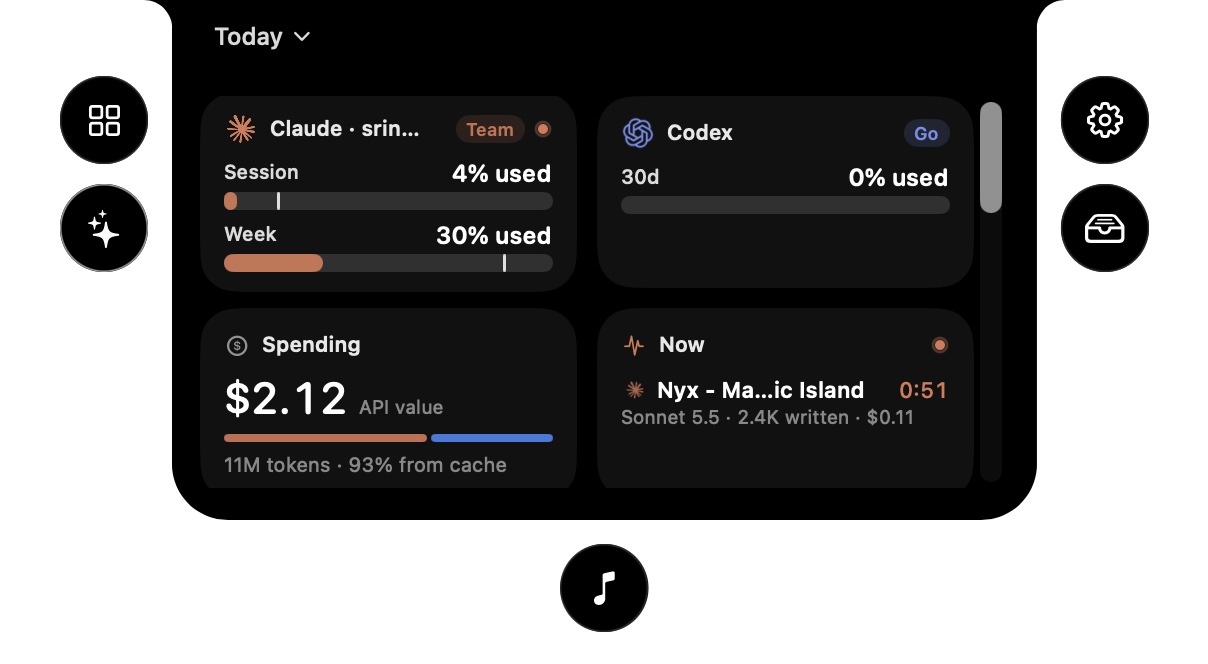
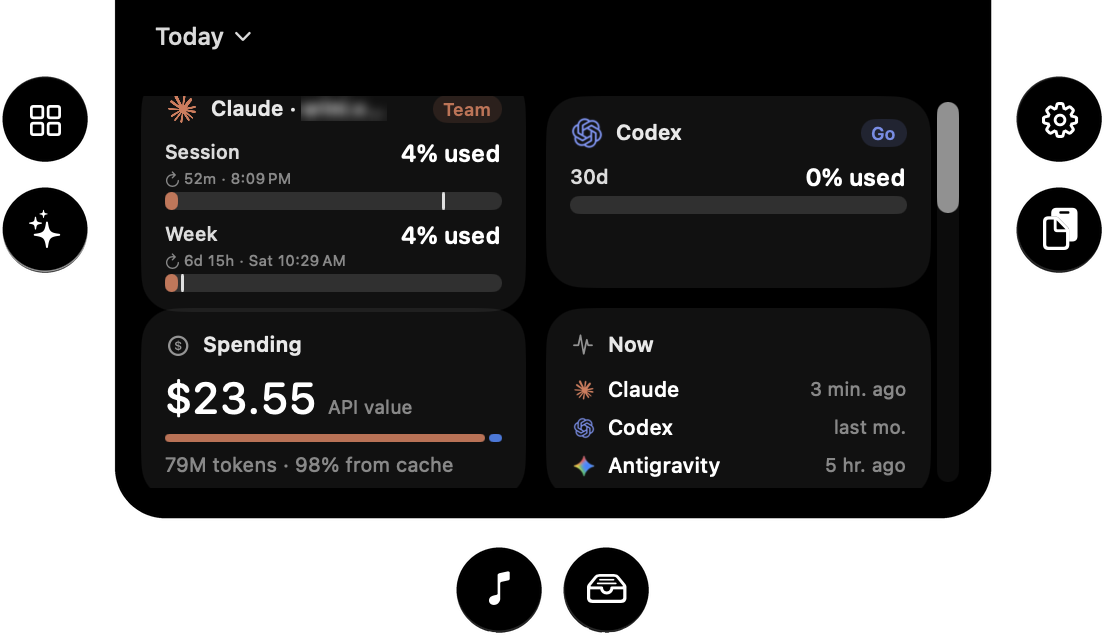
Remove leftover upstream traces, refresh README and screenshots
Drop the old project's identifiers, credit line and legacy-install handling,
delete the upstream demo GIFs, update the Agents screenshot and describe the
new features in What's new.

Changed region(s): [[0.0, 0.0, 1.0, 1.0], [0.5236, 0.7181, 0.6467, 0.748], [0.7699, 0.5087, 0.8007, 0.5386]]

diff --git a/Sources/Nyx/UI/Settings/SettingsView.swift b/Sources/Nyx/UI/Settings/SettingsView.swift
@@ -658,9 +658,6 @@ struct AboutSettings: View {
             Text(AppInfo.copyright)
                 .font(.caption2)
                 .foregroundStyle(.tertiary)
-            Text("Based on [Vorssaint](https://github.com/vorssaint/vorssaint-utils), licensed GPL-3.0.")
-                .font(.caption2)
-                .foregroundStyle(.tertiary)
         }
         .frame(maxWidth: .infinity)
         .padding(.vertical, 20)

diff --git a/Sources/Nyx/Services/Cleaner/CleanerSupport.swift b/Sources/Nyx/Services/Cleaner/CleanerSupport.swift
@@ -59,7 +59,7 @@ enum CleanerSupport {
             || wrapped.contains(".developer.apple.") || wrapped.contains(".is.workflow.") {
             return true
         }
-        if lowered == "com.apple" || lowered.hasPrefix("vorss.") {
+        if lowered == "com.apple" {
             return true
         }
         // A domain ends at a dot: com.segment covers com.segment.analytics,

diff --git a/Sources/Nyx/Services/Uninstall/UninstallerSupport.swift b/Sources/Nyx/Services/Uninstall/UninstallerSupport.swift
@@ -788,7 +788,6 @@ enum UninstallerSupport {
     private static func isOwnBundleID(_ id: String) -> Bool {
         let lowered = id.lowercased()
         return lowered == "com.nyx" || lowered.hasPrefix("com.nyx.")
-            || lowered.hasPrefix("vorss.")
     }
 
     private static func stripKnownSuffix(_ rawName: String) -> String {

diff --git a/Sources/Nyx/Services/ShellSupport.swift b/Sources/Nyx/Services/ShellSupport.swift
@@ -127,7 +127,6 @@ enum Sudoers {
     // extra password prompt.
     private static let legacyRulePaths = [
         "/etc/sudoers.d/nyx-utils-clamshell",
-        "/etc/sudoers.d/vorss-clamshell",
     ]
 
     /// Serializes native writes and read/reapply probes. Authorization runs

diff --git a/README.md b/README.md
@@ -146,6 +146,8 @@ Reorder or hide panel sections, choose a compact layout, and export settings to 
 3. Open Nyx. The first time, macOS blocks it, because Nyx is not signed with a paid Apple Developer ID. Go to **System Settings → Privacy & Security**, scroll down and click **Open Anyway**.
 4. Allow only the permissions the features you want ask for.
 
+Optional, to see what plays next from YouTube: in your browser's menu bar turn on **View → Developer → Allow JavaScript from Apple Events** (Safari: **Develop → Developer Settings**), then switch on the queue lookup in **Settings → Dynamic Island → Music**. Spotify only needs you to sign in from the Up next page.
+
 To update, download the new `.dmg` and drag Nyx into Applications again, replacing the old one. Your settings and permissions stay. macOS may ask for **Open Anyway** once more.
 
 ## Uninstall
@@ -202,8 +204,11 @@ Nyx started from the open-source [Vorssaint](https://github.com/vorssaint/vorssa
 - **Spotify playlists in the island.** Sign in once and browse your playlists, open one, and tap a song to play it on Spotify without opening the app. The login uses PKCE, so no secret is stored, and the login is kept in a private file only your account can read. **Choosing songs needs a Spotify Premium account.** Spotify only lets apps pick what plays for Premium users, so on a free account you can browse your playlists but not play from them.
 - **Time and weather on the island.** The closed island shows the time on the left and the weather, with an emoji, on the right. The weather uses your approximate location if you allow it (Open-Meteo, no account).
 - **Calculator in the island.** A new section with three modes: basic arithmetic (powers, roots, fractions), trigonometry (sin, cos, tan, csc, sec, cot and their inverses, in degrees or radians), and calculus (derivatives, integrals, complex numbers, factorials). Shortcut ⌥⌘K.
+- **Alarms in the island.** A new section for alarms that ring from the island: set a time with scroll wheels, add a label, and repeat on the days you pick, or ring once. A ringing alarm plays a sound and stays on the closed island with a **Stop** button until you stop it, and the Alarms page can snooze it for 5 minutes. Shortcut ⌥⌘L. Nyx has to be running for an alarm to ring.
+- **Add events to Calendar.** The island's Calendar page has a **+** button that opens a small form for a title, date and time, all day, and which calendar to save to. Events go into the Calendar app, so they sync as usual.
+- **Edit clipboard text in Scratchpad.** Text entries in the island's Clipboard have a pen button that opens the text in Scratchpad.
 - **Menu bar folder.** Collapse the menu bar icons you rarely use into one folder, and click through to them without leaving the bar.
-- **Antigravity usage.** The AI agents section reads Antigravity's conversations and shows its token use, models and cost, with its own card and the Gemini mark.
+- **Antigravity usage.** The AI agents section reads Antigravity's conversations and shows its token use, models and cost, with its own card and the Gemini mark. Also, in settings can turn off showing Antigravity as working.
 - **Claude limits fixed up.** Claude plan limits are read more reliably, and limit bars now default to showing how much you have used.
 - **Copy image** on Recent Captures and on the Shelf, so a screenshot goes straight to your clipboard.
 - **Downloads show their date.** Each finished download in the island lists when it was saved.
